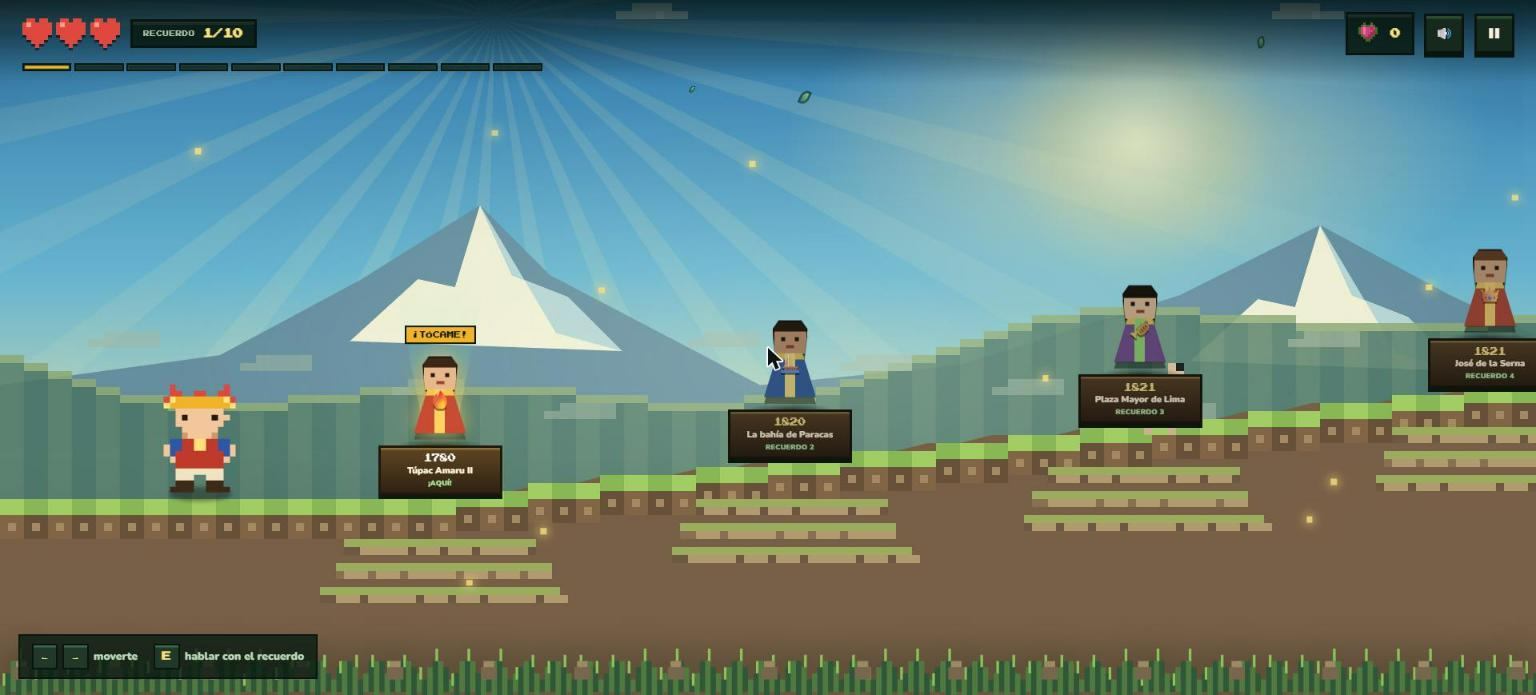
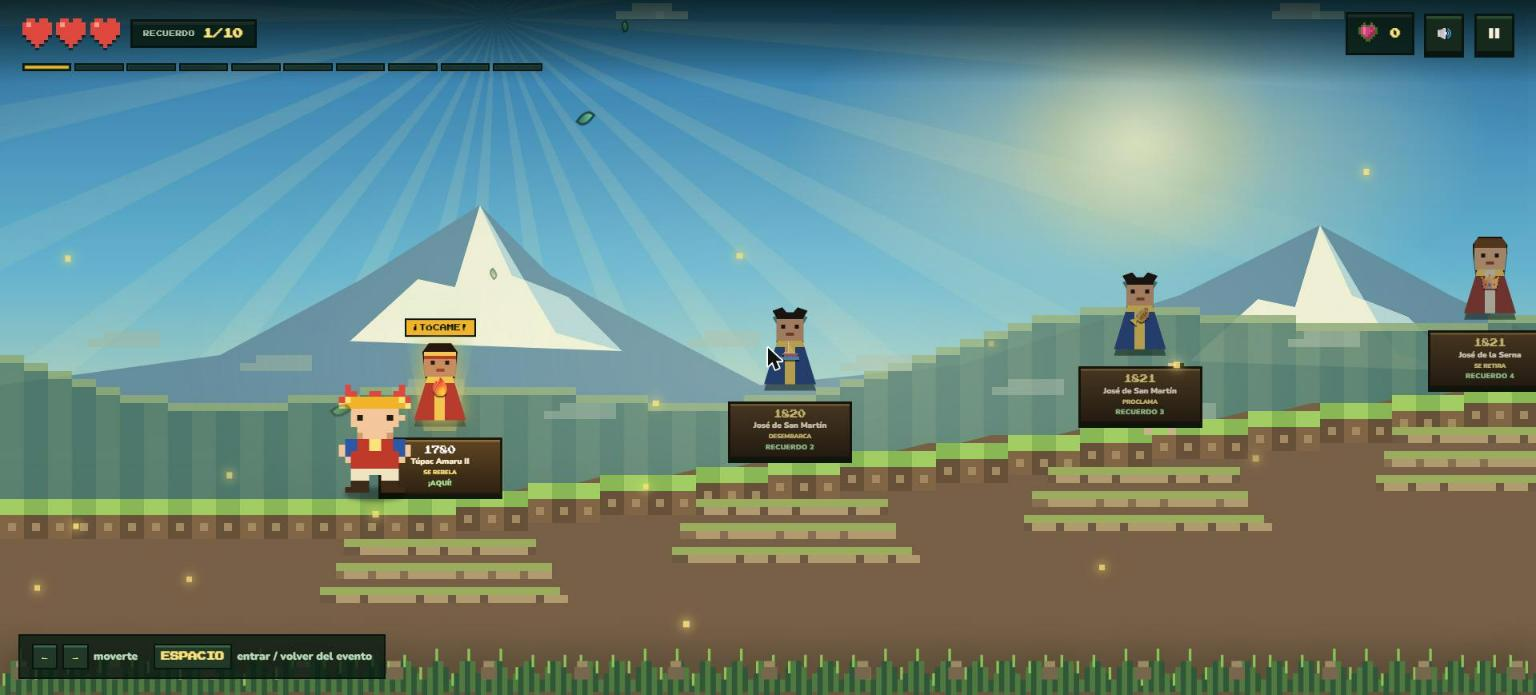
Update README for character scenes, hints and Space key flow

diff --git a/README.md b/README.md
@@ -15,11 +15,13 @@ La idea es que aprender historia se sienta como jugar una aventura, no como estu
 
 ## 🎮 Cómo se juega
 
-1. **Camina** con las flechas `←` `→` o con los botones en pantalla (en celular). También puedes tocar un recuerdo para ir hacia él.
-2. **Despierta el recuerdo** al llegar y responde en **10 segundos** (teclas `1` `2` `3` o tocando una opción).
-3. Cada acierto da una **fruta peruana** (tuna, mango, lúcuma, cacao, maracuyá, granadilla). Tienes **3 vidas**.
-4. Si pierdes las 3 vidas aparece la **ronda de rescate**: 3 preguntas fáciles de 5 segundos. Con 2 aciertos recuperas una vida y sigues.
-5. Al completar los 10 recuerdos ganas la **insignia** y se desbloquea el siguiente bloque.
+1. **Camina** con las flechas `←` `→` o con los botones en pantalla (en celular). También puedes tocar un recuerdo, o usar el botón "Ir al recuerdo", para acercarte.
+2. **Entra al recuerdo** pulsando `ESPACIO` (o el botón "Entrar al recuerdo"): te conviertes en el personaje y ves su escena.
+3. **Responde en 10 segundos** (teclas `1` `2` `3` o tocando una opción). Si dudas, el botón **PISTA 💡** te da una ayuda.
+4. Pulsa `ESPACIO` otra vez para **volver a la montaña** y seguir subiendo.
+5. Cada acierto da una **fruta peruana** (tuna, mango, lúcuma, cacao, maracuyá, granadilla). Tienes **3 vidas**.
+6. Si pierdes las 3 vidas aparece la **ronda de rescate**: 3 preguntas fáciles de 5 segundos. Con 2 aciertos recuperas una vida y sigues.
+7. Al completar los 10 recuerdos ganas la **insignia** y se desbloquea el siguiente bloque.
 
 ### Mapa de bloques
 
@@ -37,13 +39,15 @@ Cinco bloques de historia del Perú. Hoy está jugable el Bloque 1; los demás a
 
 ### El mundo
 
-El camino **sube por los Andes**: cada recuerdo queda más arriba que el anterior y la cámara acompaña la subida, con montañas nevadas, capas de parallax, luciérnagas y hojas cayendo. Cada recuerdo es un personaje con su cartel (año y lugar).
+El camino **sube por los Andes**: cada recuerdo queda más arriba que el anterior y la cámara acompaña la subida, con montañas nevadas, capas de parallax, luciérnagas y hojas cayendo. Cada recuerdo es un personaje con su cartel (año, nombre y la acción que realiza, como "SE REBELA" o "DESEMBARCA"). Los ya completados quedan marcados como **RECORDADO** y se pueden tocar para releer su dato.
 
 ![Camino ascendente por los Andes con los recuerdos](docs/img/03-mundo.jpg)
 
-Los recuerdos ya completados quedan marcados como **RECORDADO** y se pueden tocar para releer su dato.
+### Ser el personaje: escenas de acción
 
-![El jugador avanza y el primer recuerdo queda completado](docs/img/04-ascenso.jpg)
+Al entrar a un recuerdo el jugador **se convierte en el personaje histórico** ("Tú eres · Túpac Amaru II"). Se abre una escena con el lugar (por ejemplo "Tinta, Cusco"), una figura animada y una frase que cuenta qué está haciendo, y a partir de ahí se plantea la pregunta como parte de la historia.
+
+![Escena de Túpac Amaru II con la pregunta y las opciones](docs/img/04-escena.jpg)
 
 ### Preguntas como minijuegos
 
@@ -56,17 +60,17 @@ Cada pregunta tiene un cronómetro visible y tres opciones que se **mezclan en c
 | **TEMPLO** | Abre la puerta que revela la respuesta |
 | **RESCATE** | Elige rápido la pista correcta (ronda de 5 segundos) |
 
-Después de responder, el juego muestra la respuesta correcta y un **dato curioso** que explica el porqué.
+Después de responder, el juego muestra la respuesta correcta, la fruta ganada y un **dato curioso** que explica el porqué. Con `ESPACIO` o el botón "Volver a la montaña" se sigue el camino.
 
-| Escalada (se acabó el tiempo) | Quipu (acierto, +1 fruta) |
-|---|---|
-| ![Minijuego de escalada con el dato curioso](docs/img/05-escalada.jpg) | ![Minijuego de quipu con respuesta correcta](docs/img/06-quipu.jpg) |
+![Respuesta correcta con fruta y dato curioso](docs/img/05-acierto.jpg)
 
 ## 🧠 Cómo ayuda a recordar
 
 - **Orden cronológico:** los 10 recuerdos siguen la línea de tiempo, lo que ayuda a ubicar cada hecho.
 - **Repaso espaciado:** el modo **Repaso** arma 5 preguntas priorizando las que el jugador falló, y el menú le avisa cuántos días pasaron desde la última práctica.
 - **Dominio por recuerdo:** el juego guarda cuántas veces se acertó cada pregunta y muestra el progreso en el mapa.
+- **Pistas:** cada pregunta tiene una pista opcional que orienta sin dar la respuesta.
+- **Aprender actuando:** ser el personaje en su escena ayuda a asociar el hecho con el lugar y la acción.
 - **Ronda de rescate:** da una segunda oportunidad con datos concretos, para no frustrar a quien se equivoca.
 - **Resumen final:** muestra aciertos, errores, tiempo y "lo que aprendiste", una frase por cada recuerdo.
 
@@ -88,7 +92,7 @@ HTML, CSS y JavaScript puro, sin frameworks ni dependencias.
 ```
 index.html        Pantallas: menú, bloques, juego, resumen, derrota, rescate y modales
 css/style.css     Estilos y animaciones
-js/data.js        Contenido histórico: bloques, 10 preguntas con datos curiosos y banco de rescate
+js/data.js        Contenido histórico: bloques, 10 recuerdos (personaje, escena, pista, pregunta, dato curioso) y banco de rescate
 js/sprites.js     Personajes, frutas e insignias en pixel art
 js/scene.js       Capas del paisaje (cielo, montañas andinas, camino ascendente, vegetación)
 js/app.js         Lógica: mundo, movimiento, preguntas, vidas, rescate, repaso, guardado y sonido
@@ -113,7 +117,15 @@ Todo el contenido está en `js/data.js`. Para añadir una pregunta se agrega un 
   year: '1824',
   name: 'Título del recuerdo',
   icon: '⚔',
-  scene: 'Lugar o personaje',
+  character: 'Nombre del personaje',     // "Tú eres · ..."
+  characterKey: 'sucre',                 // dibujo del personaje
+  scene: 'Lugar de la escena',
+  action: 'Frase de lo que hace el personaje.',
+  actionKey: 'victory',                  // animación de la acción
+  actionLabel: 'VENCE',                  // etiqueta en el cartel
+  actionProp: '⚔',
+  landmarks: ['⛰', '⚔', '🌄'],        // decorado de la escena
+  hint: 'Pista: ayuda sin dar la respuesta.',
   question: '¿Pregunta?',
   options: ['Correcta', 'Distractor 1', 'Distractor 2'],
   fact: 'Dato curioso que se muestra tras responder.',
@@ -121,6 +133,8 @@ Todo el contenido está en `js/data.js`. Para añadir una pregunta se agrega un 
   fruit: 'mango'
 }
 ```
+
+`characterKey` y `actionKey` eligen el dibujo y la animación, así que conviene reutilizar los que ya usa el juego (por ejemplo `tupac`, `san-martin`, `bolivar`, `sucre`; `rally`, `landing`, `proclaim`, `victory`). Un personaje nuevo necesita su estilo en `css/style.css`.
 
 ## 🚧 Estado y próximos pasos
 
